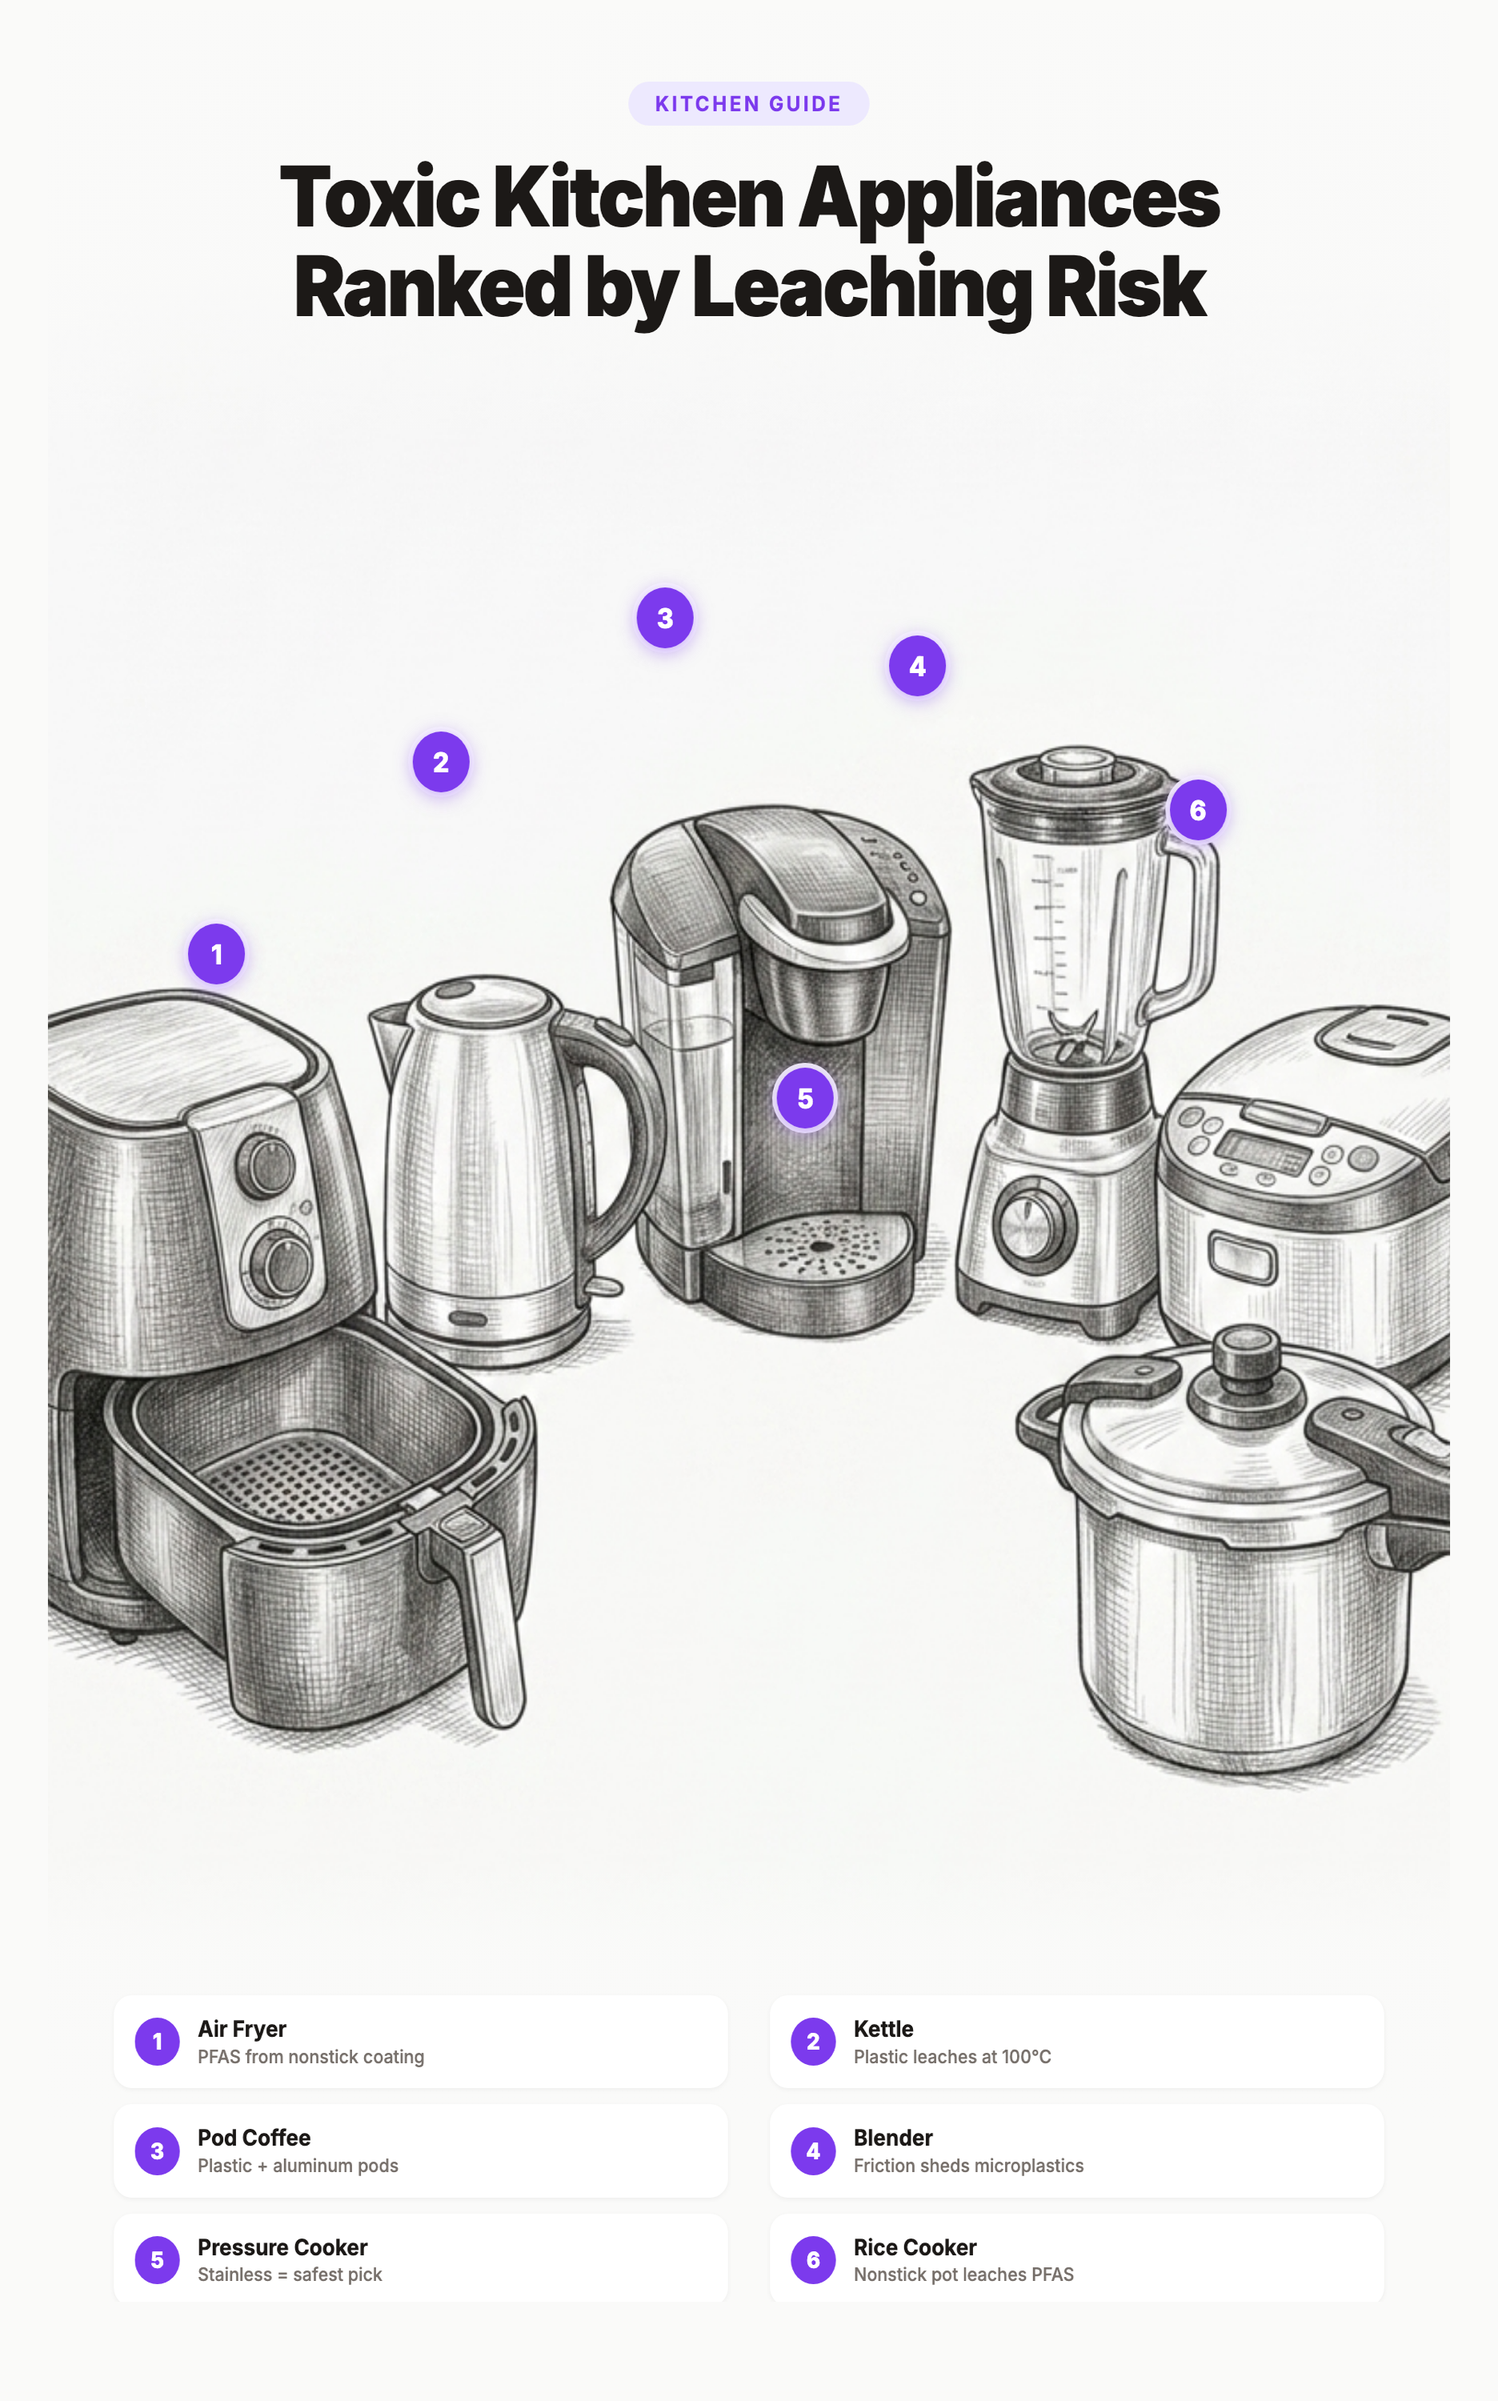
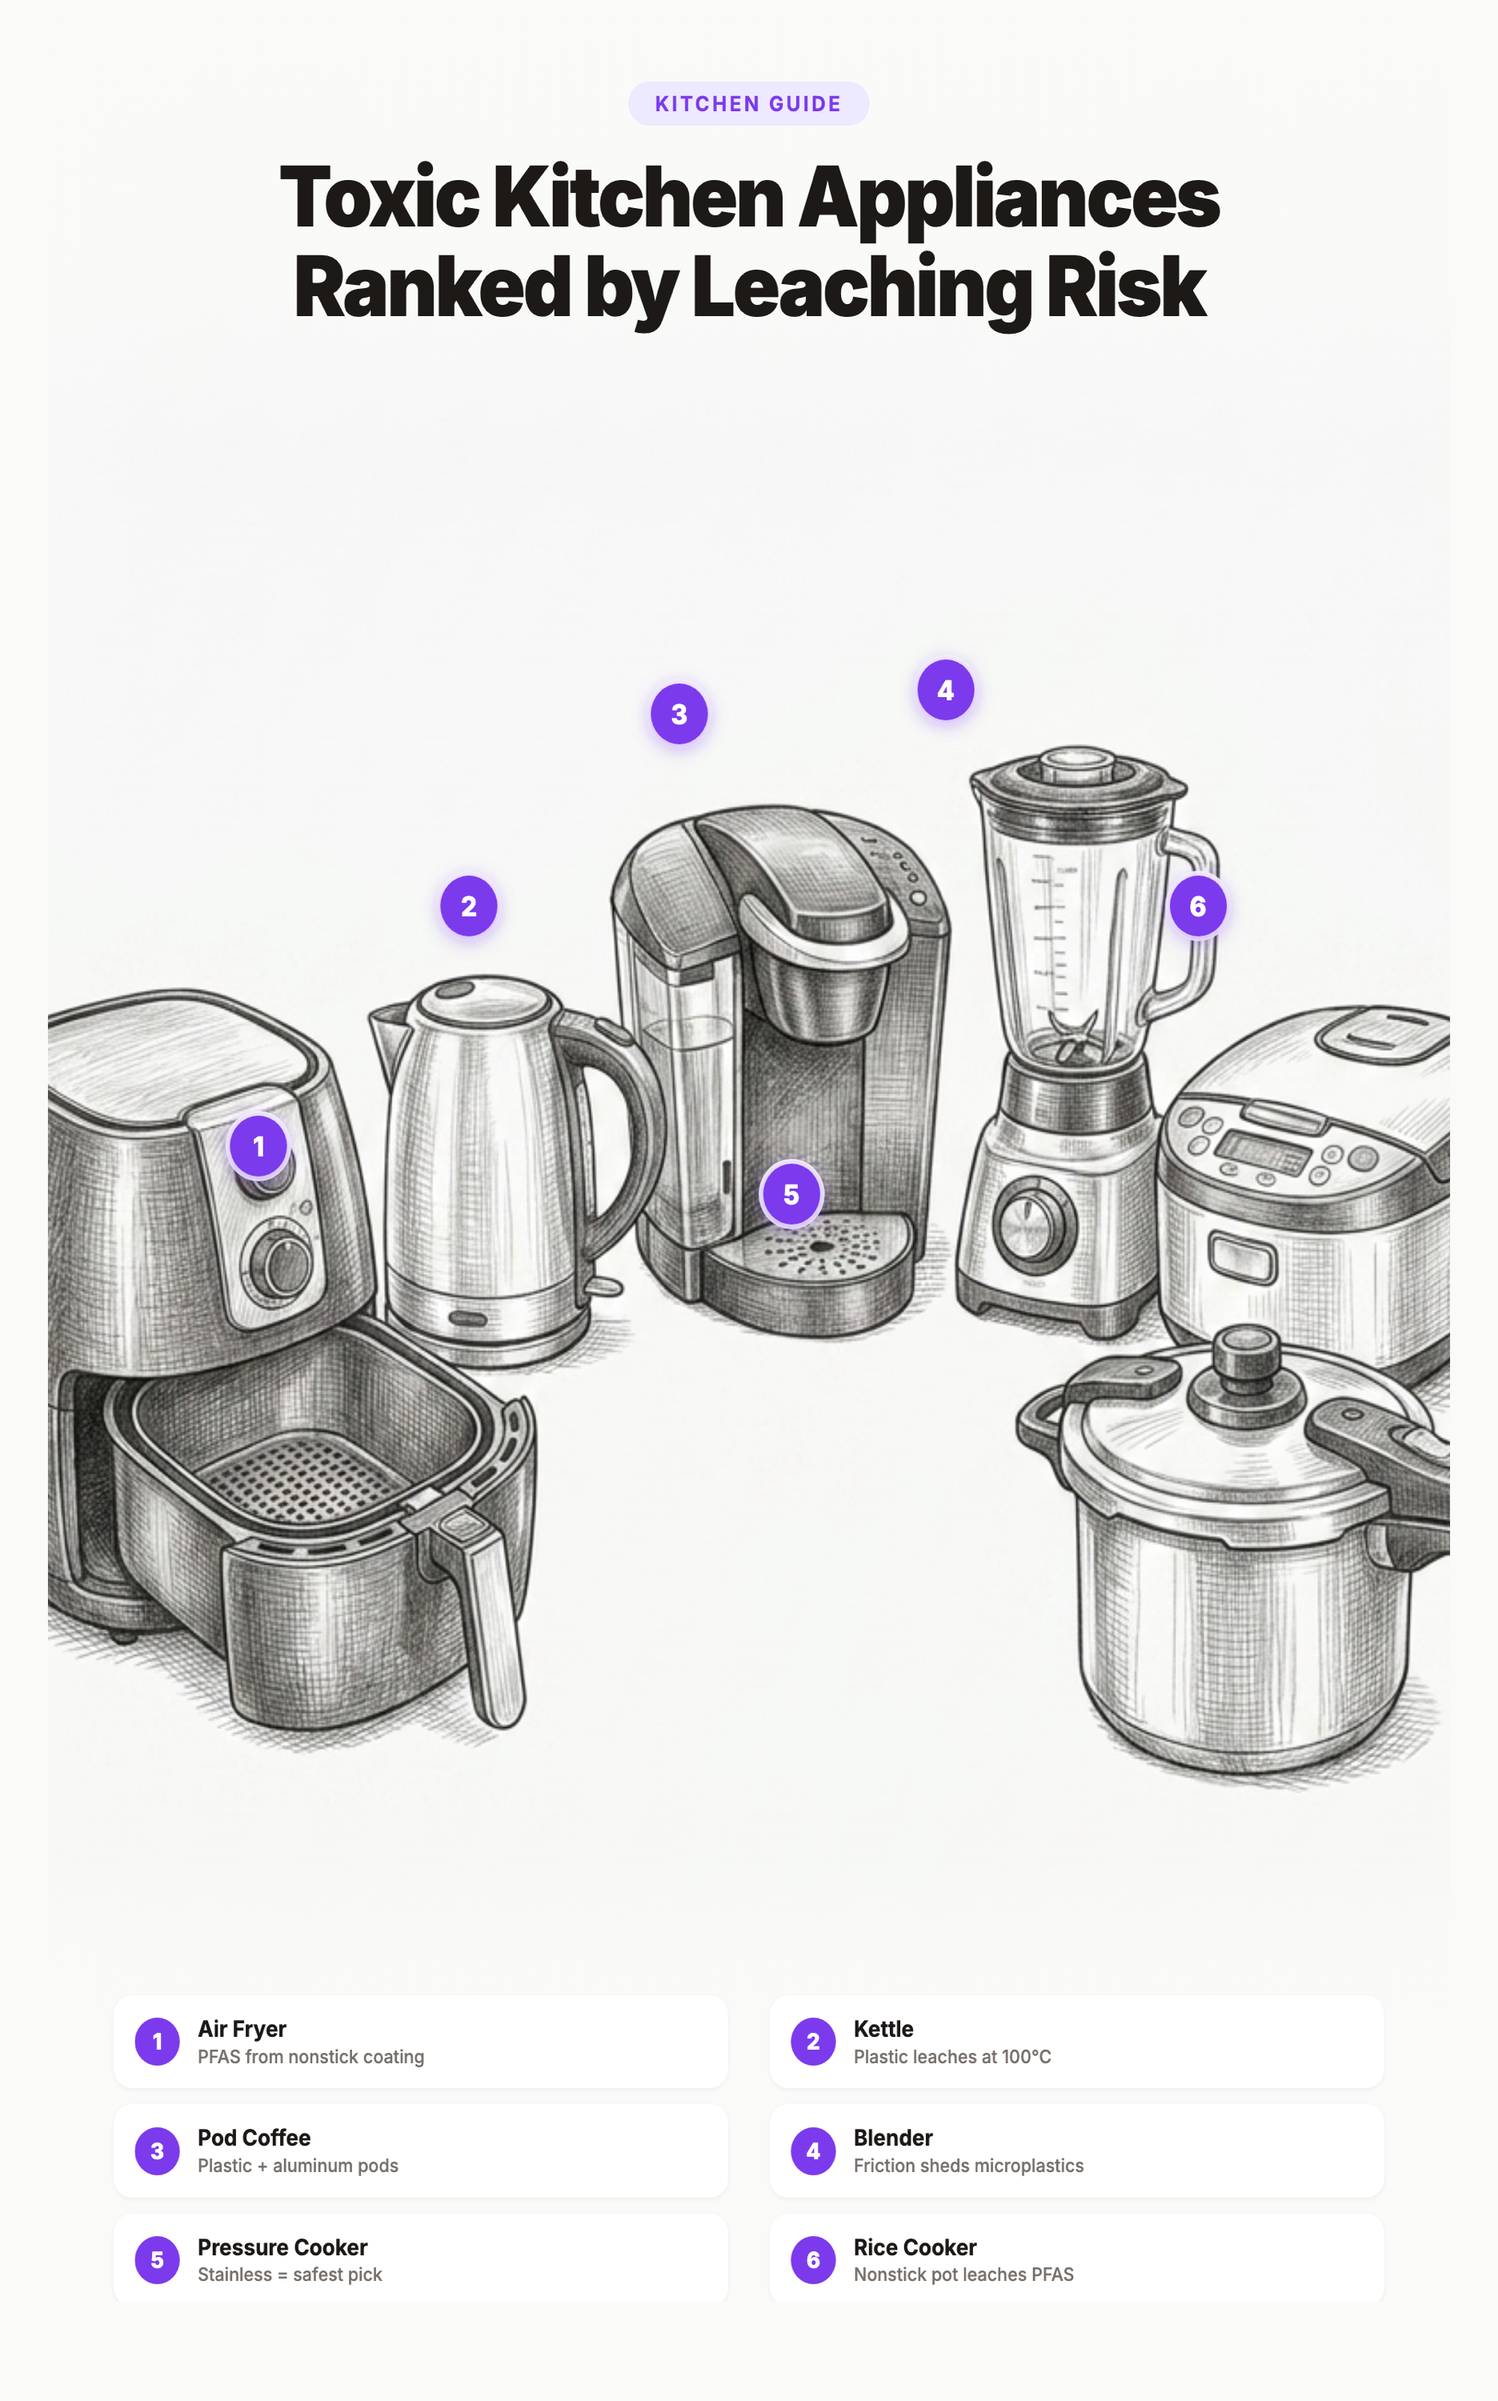
Fix badge positions to sit on correct appliances

diff --git a/images/toxic-appliances-swap-pinterest.html b/images/toxic-appliances-swap-pinterest.html
@@ -88,12 +88,12 @@
       z-index: 3;
     }
 
-    .badge-1 { left: 10%; top: 38%; }
-    .badge-2 { left: 26%; top: 30%; }
-    .badge-3 { left: 42%; top: 24%; }
-    .badge-4 { left: 60%; top: 26%; }
-    .badge-5 { left: 52%; top: 44%; }
-    .badge-6 { left: 80%; top: 32%; }
+    .badge-1 { left: 13%; top: 46%; }
+    .badge-2 { left: 28%; top: 36%; }
+    .badge-3 { left: 43%; top: 28%; }
+    .badge-4 { left: 62%; top: 27%; }
+    .badge-5 { left: 51%; top: 48%; }
+    .badge-6 { left: 80%; top: 36%; }
 
     /* ─── BOTTOM: swap legend card ─── */
     .bottom-card {
